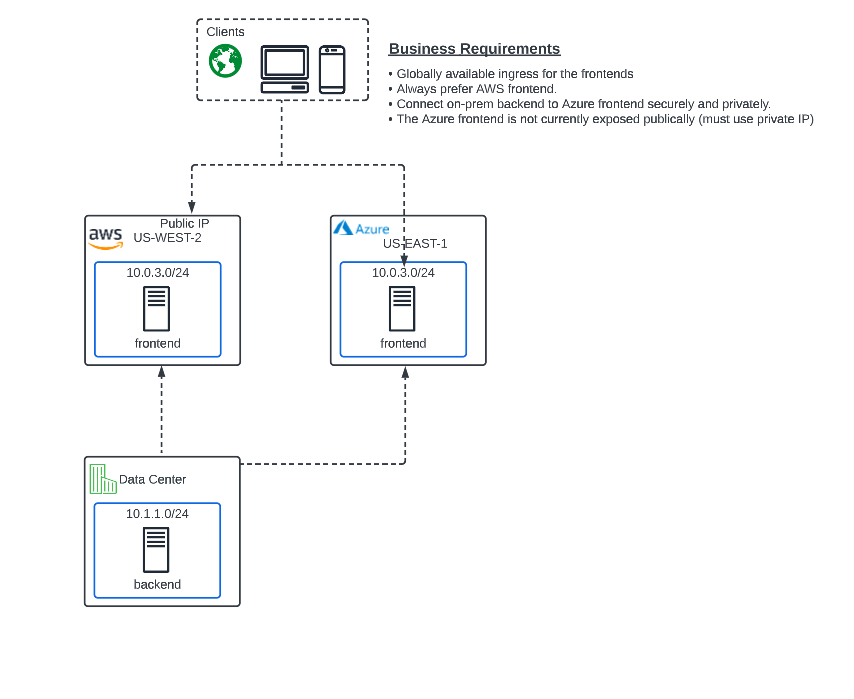
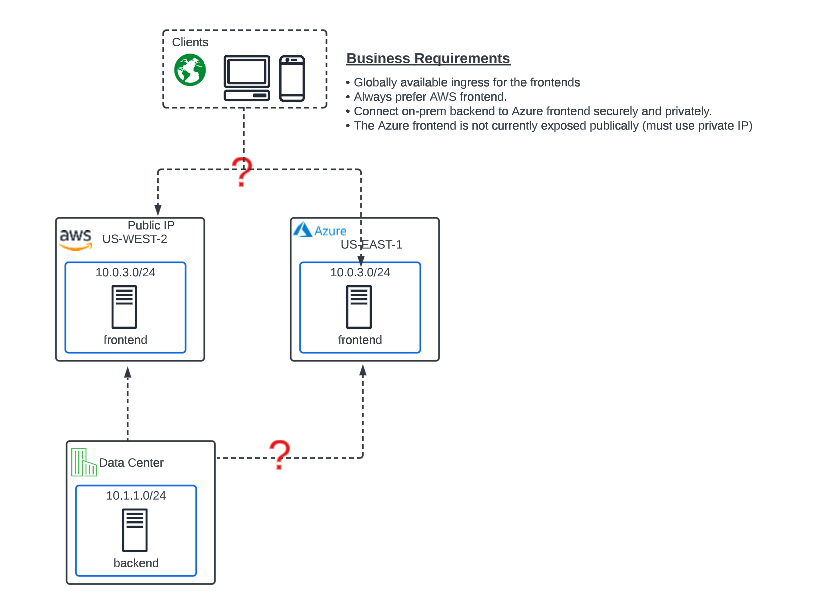
updates

diff --git a/docs/class4/module1/lab2.rst b/docs/class4/module1/lab2.rst
@@ -100,8 +100,8 @@ Click on your Customer Edge Node **animal name**.  The default landing is Dashbo
 Configuring Network Connect
 ---------------------------------------
 
-Now that you are familiar with your new software defined Node we can start getting our hands dirty with real configuration necessary to meet ACME companies first requirement to
-get the network in AWS connected to the network in the Data Center. The backend security device will need to scan the frontend in AWS on port 80. 
+Now that you are familiar with your new software defined Node we can start getting our hands dirty with the real configuration necessary to meet ACME companies first requirement to
+get the network in the On-prem DC connected to the network in AWS. The backend security device will need to scan the frontend in AWS on port 80. 
 
 
 In our lab today, an Ubuntu Server in the UDF environment will simulate the backend. 
@@ -111,7 +111,7 @@ The AWS front end is already deployed along with an XC Node to extend the Custom
 .. image:: ../images/netconnlab.png
 
 
-What you have done so far is setup the ACME Data Center XC Node to extend the Customer Edge. 
+What you have done so far is setup the ACME Data Center XC Node to extend the Customer Edge On-prem. 
 Your first goal is to simply establish routing between these environments by using a hub and spoke model with our Regional Edges as shown in the diagram above.
 
 **End of Lab 1**

diff --git a/docs/class4/module2/lab3.rst b/docs/class4/module2/lab3.rst
@@ -12,11 +12,13 @@ Lab 3: Globally Available Front End
 
 **What they want:**
 
-.. image:: ../images/lab3bizreq.png
+.. image:: ../images/lab3bizreq1.png
 
 **Narrative:**
 
-Unfortunately, after doing your due diligence, you find that the Azure VNET overlaps with the AWS subnets. You think to yourself, this is going to be tricky, and reach out to your trusted F5 Solutions Engineer to see how this will work with Network Connect. 
+Unfortunately, after doing your due diligence, you find that the Azure VNET overlaps with the AWS subnets. To make matters worse, 
+the Azure server is not associated with any public IP and there is a security directive in place to not have any workload servers in Azure associated with a public IP. 
+You think to yourself, this is going to be tricky, and reach out to your trusted F5 Solutions Engineer to see how this will work with Network Connect. 
 
 Your F5 Solutions Engineer explains that IP overlap between sites is a common problem and one that can be easily solved with Distributed Cloud App Connect. 
 App Connect alleviates this problem by leveraging the XC Nodes as Software Defined proxies rather than SD Routers as they were configured with Network Connect.   

diff --git a/docs/class4/module2/module2.rst b/docs/class4/module2/module2.rst
@@ -13,12 +13,15 @@ Inbound Internet traffic should always be sent to the AWS frontend with the Azur
 The on-prem backend server must be able to scan the private frontend in Azure on port 80. 
 The frontend server in Azure WILL NOT have a public IP. ACME has truly gone multi-cloud!
 
+.. image:: ../images/mod2bizreq.png
+
 
 **In Lab 3** we will be satisfying the latest ACME business requirements by providing a globally available frontend to the cloud application
 
 **In Lab 4** we will solve the IP overlap problem introduced by the Azure acquisition by deploying App Connect and a site mesh group
 
-**In Lab 5** we are offering a bonus application routing lab where requests from the backend server will be routed to AWS or Azure frontend based on URI. 
+**In Lab 5** we are offering a bonus application routing lab where requests from the backend server will be routed to AWS or Azure frontend based on URI. You will also 
+be configuring application security policy on the globally available frontend. 
 
 .. toctree::
    :maxdepth: 1

diff --git a/docs/class4/module1/module1.rst b/docs/class4/module1/module1.rst
@@ -5,10 +5,10 @@ Module 1: Network Connect
 
 **Narrative**:
 
-As described in the intro, you work at ACME corp as a Network Engineer and have been tasked with privately connecting the backend server with the frontend server in AWS. 
+As described in the intro, you work at ACME corp as a Network Engineer and have been tasked with privately and securely connecting the backend server with the frontend server in AWS. 
 Your solution must be future-proof to allow for additional backends or frontends in the future. 
 
-**In Lab 1** we will be deploying an XC Node to to establish the Customer Edge (CE) which will provide connectivity to remote environments or sites. 
+**In Lab 1** we will be deploying an XC Node to establish the Customer Edge (CE) which will provide connectivity to remote environments or sites. 
 
 **In Lab 2** we will configure the XC Node to act as a Software-Defined Router to stich together the On-prem and AWS networks using Network Connect. 
 

diff --git a/docs/class4/module2/lab5.rst b/docs/class4/module2/lab5.rst
@@ -15,7 +15,7 @@ Lab 5: Bonus Lab - L7 AppRouting
 
 **Narrative:** 
 Much like "The Real World" the requirements never stop coming. Now, ACME has 2 new deliverables for you to figure out. First, ever since exposing the frontends globally, they have noticed 
-alot of automated aka bot traffic coming in to their frontends. They have asked if there is a way to apply security policy to identify and remediate the bots as well as manual attacks. 
+alot of automated aka bot traffic coming in to their application. They have asked if there is a way to apply security policy to identify and remediate the bots as well as manual attacks. 
 
 Second, the backend security device now needs to communicate to AWS and Azure based on URI. The requirement is for any requests from the backend that have /FOO in the URI should be routed to AWS. 
 Any requests with /BAR should be routed to Azure. 

diff --git a/docs/class4/intro.rst b/docs/class4/intro.rst
@@ -38,7 +38,7 @@ The on-prem environment is emulated by the F5 UDF environment and contains an Ub
 
 The AWS cloud environment contains a prebuilt XC Node and a workload hosting a web frontend.  **You will not have access to the AWS console.**
 
-The Azure cloud environment contains a prebuilt XC Node and a workload hosting a web frontend.  **You will not have access to the AZURE console.**
+The Azure cloud environment contains a prebuilt XC Node and a workload hosting a web frontend.  **You will not have access to the Azure console.**
 
 .. toctree::
    :maxdepth: 1

diff --git a/docs/class4/module2/lab4.rst b/docs/class4/module2/lab4.rst
@@ -11,7 +11,7 @@ Lab 4: App Connect - Solving IP Overlap
 
 *Review network security events in the XC console.
 
-.. image:: ../images/lab4bizreq.png
+.. image:: ../images/lab4bizreq1.png
 
 **Narrative:** 
 
